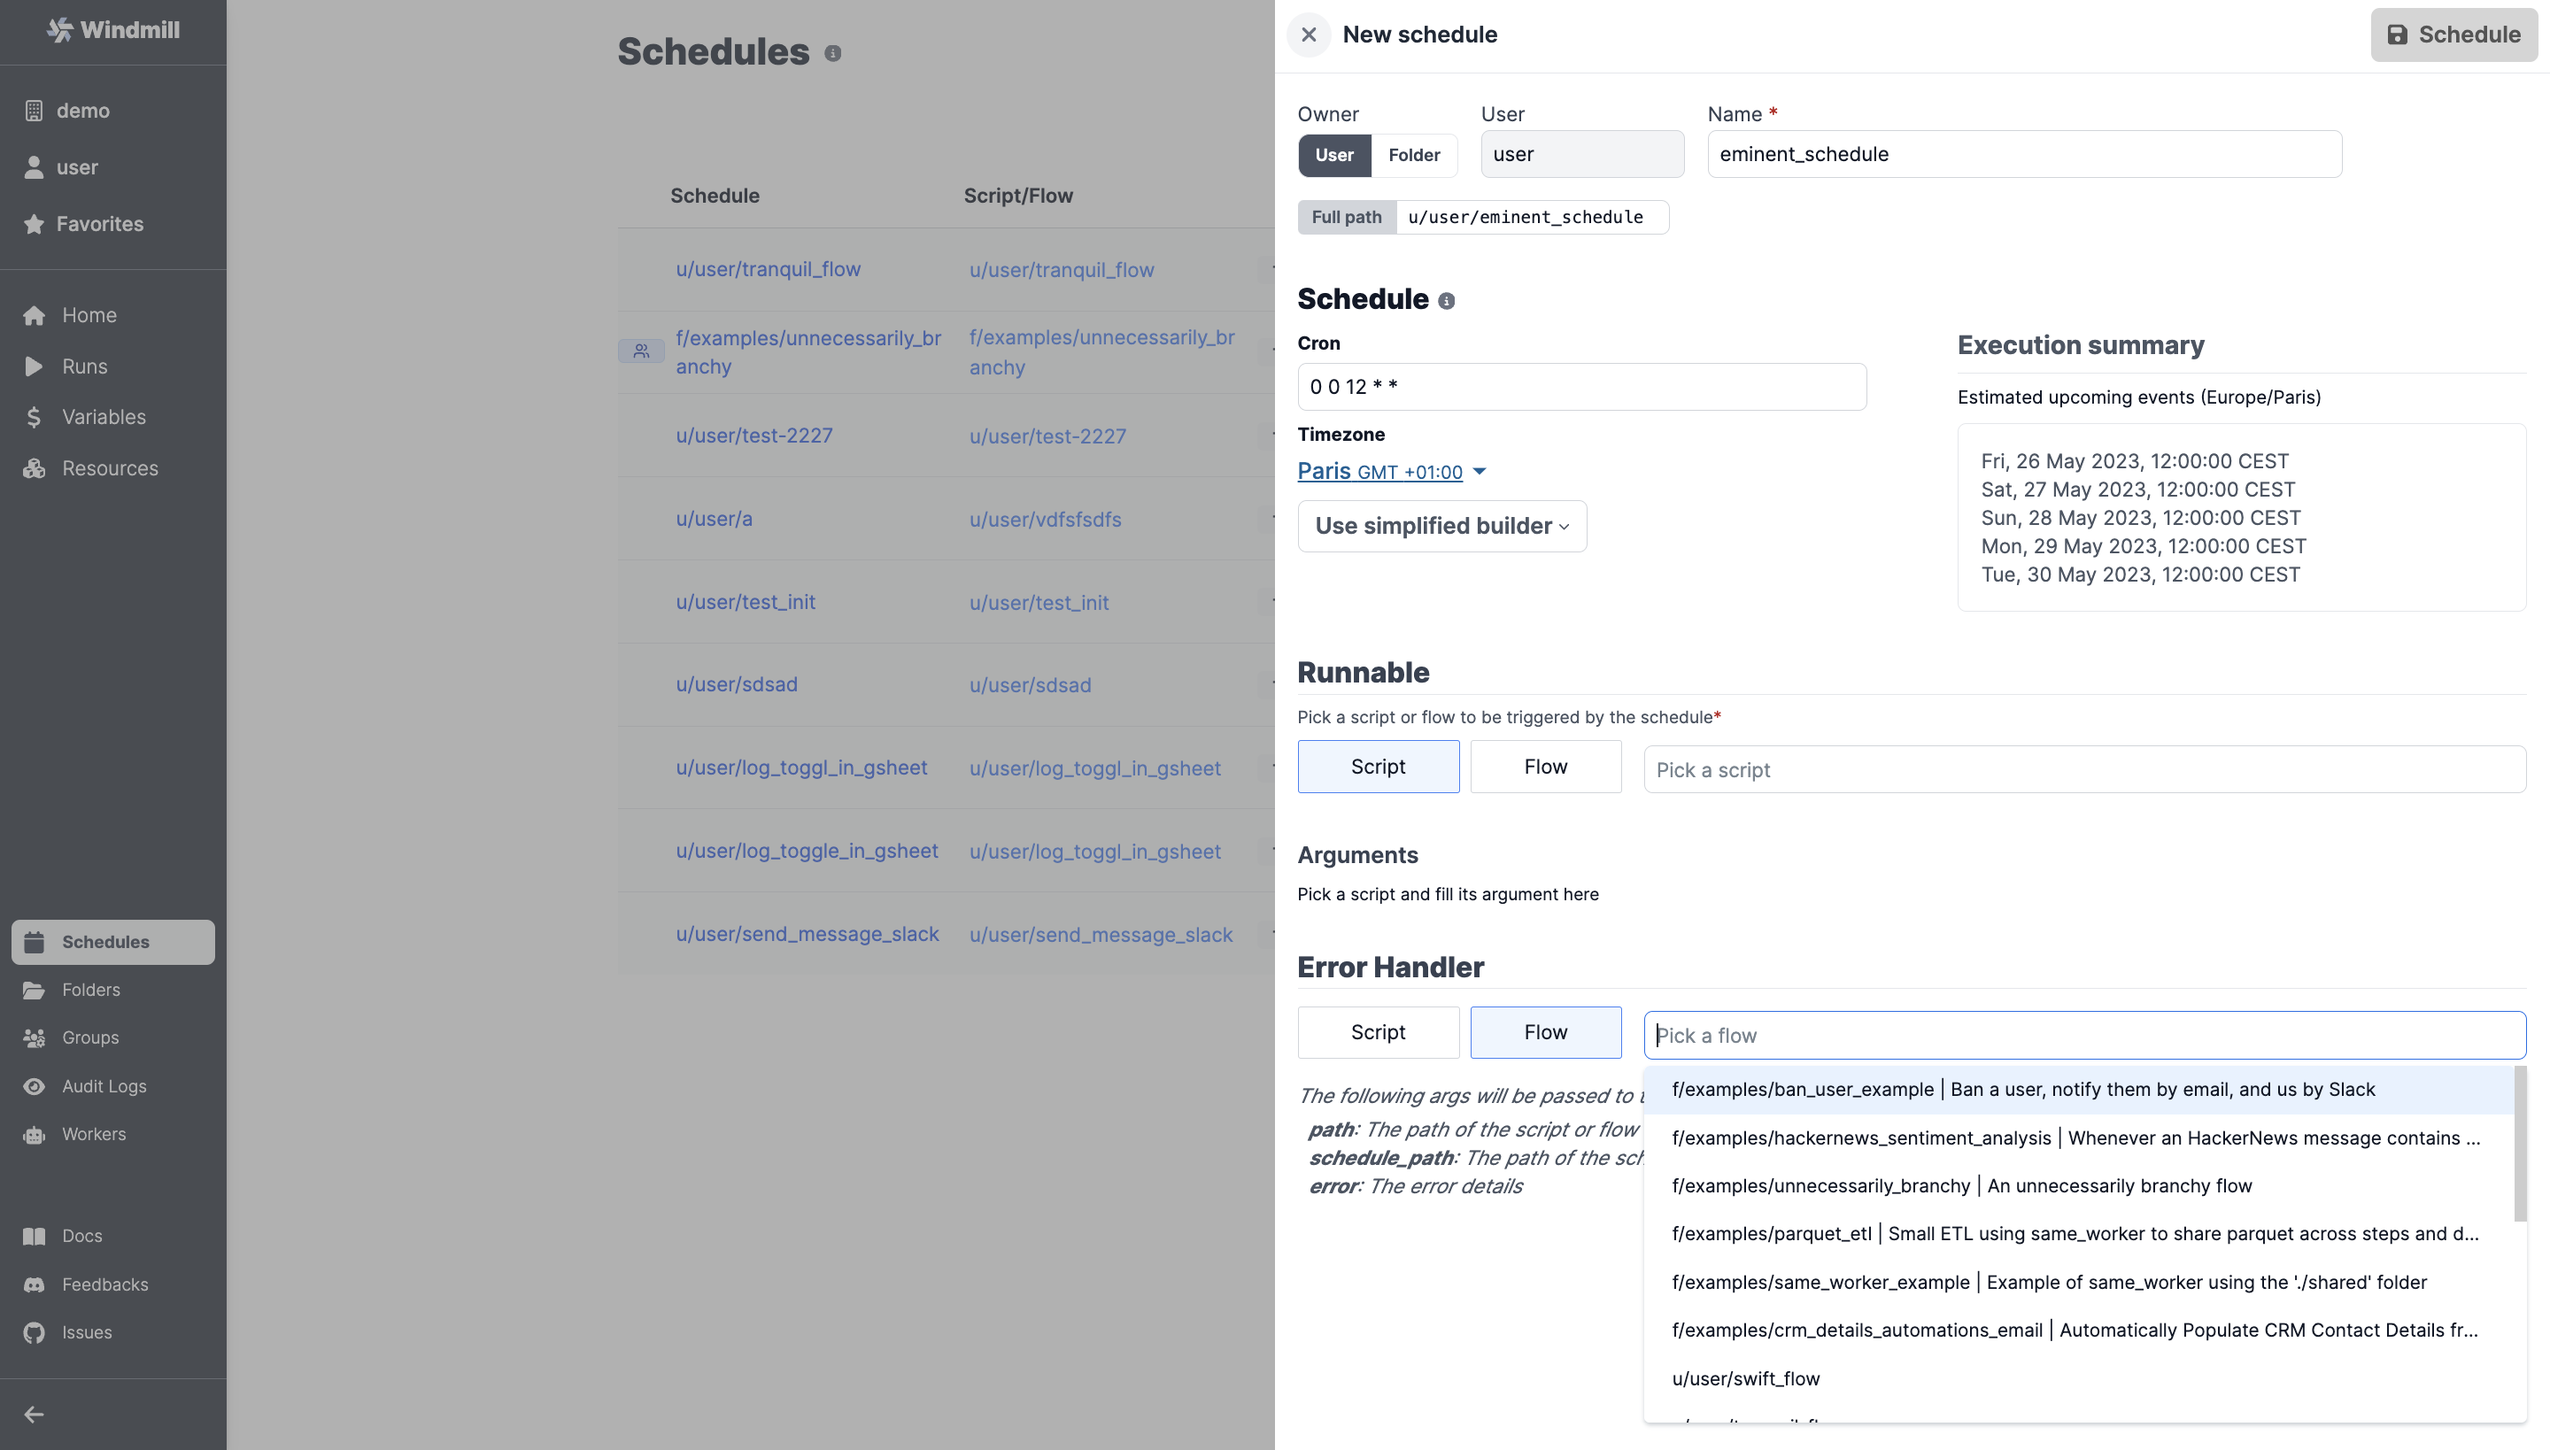
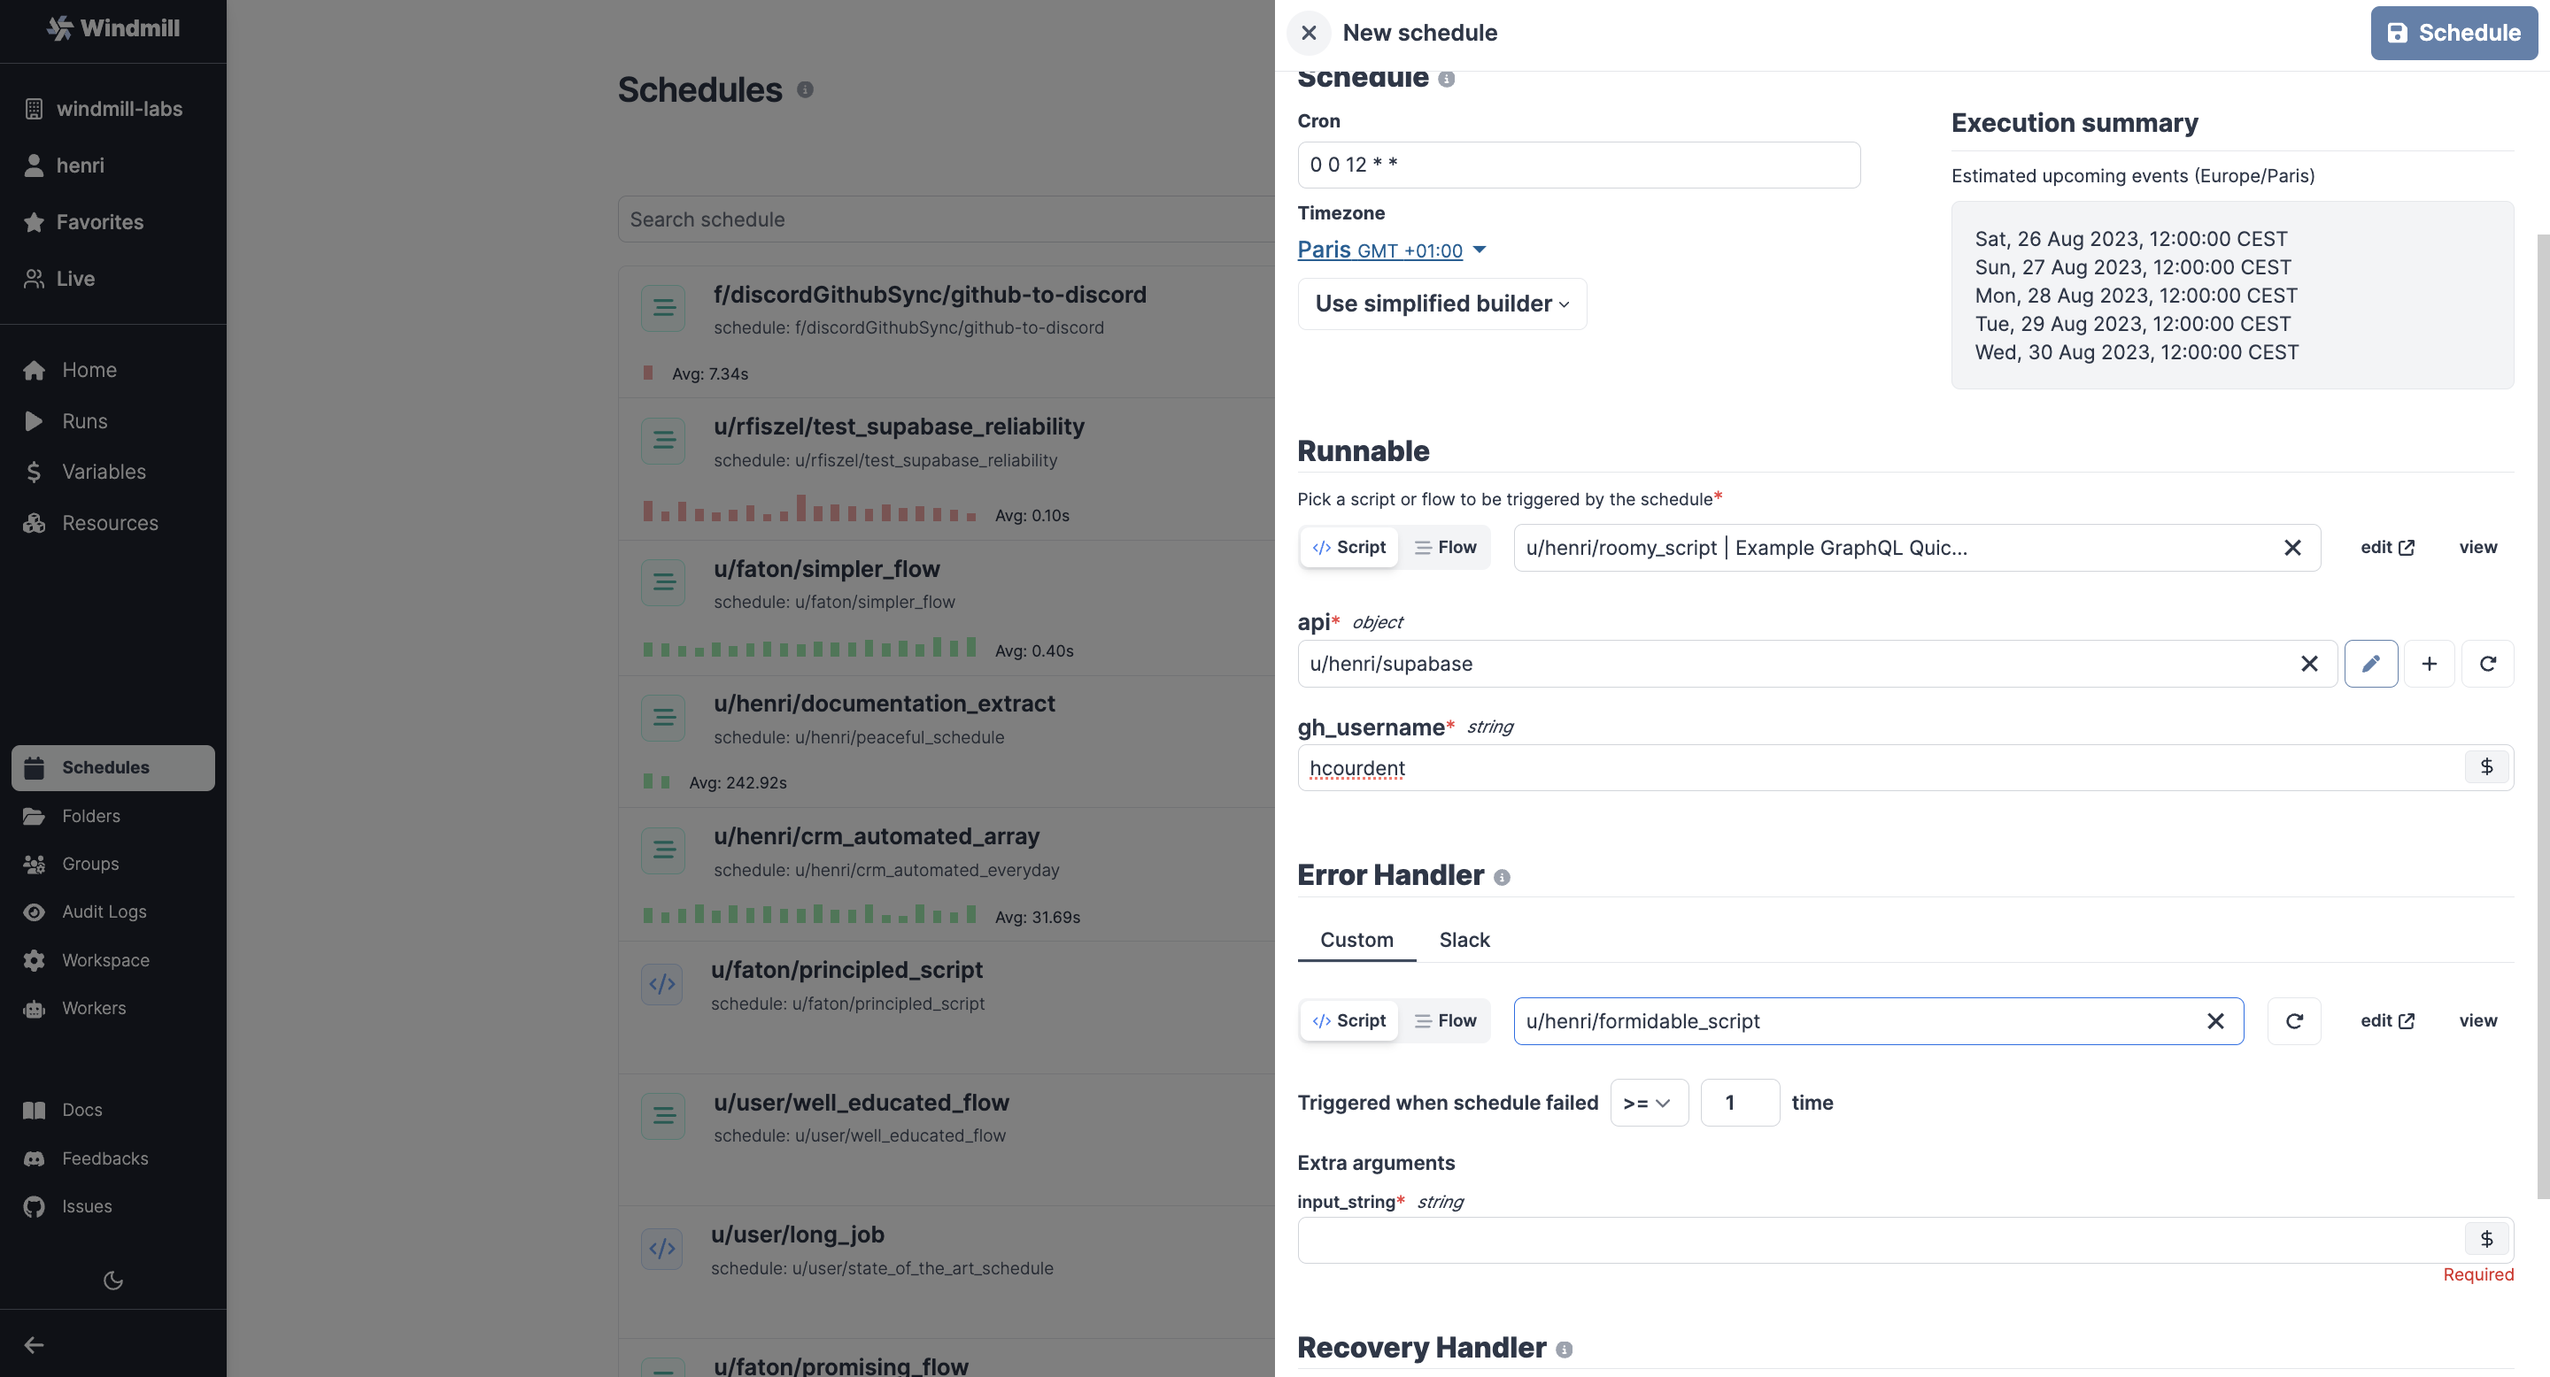
putting forward Schedule error handler

diff --git a/docs/core_concepts/1_scheduling/index.md b/docs/core_concepts/1_scheduling/index.md
@@ -1,8 +1,8 @@
 # Scheduling
 
-Windmill provides the same set of features as CRON, but with a user interface and control panels. It allows you to define Schedules for Scripts and Flows. Once a schedule is defined, **the script will automatically run at the set frequency**. Think of it as an easy-to-use scheduler similar to CRON that you can share with other users.
+Windmill provides the same set of features as CRON, but with a user interface and control panels. It allows you to define Schedules for Scripts and Flows. Once a schedule is defined, the script will automatically run at the set frequency. Think of it as an easy-to-use scheduler similar to CRON that you can share with other users.
 
-A Schedule consists of a **Script or Flow**, its **arguments** and a **CRON expression** that controls the execution frequency.
+A Schedule consists of a **Script or Flow**, its **arguments**, a **CRON expression** that controls the execution frequency and an **Error Handler** to deal with failed scheduled executions.
 
 <!--truncate-->
 
@@ -23,7 +23,7 @@ However, as with any powerful tool, using cron comes with its own set of challen
 - **Runs History**: to maintain a record of script runs and log outputs through cron, you must manually incorporate that logic.
 - **Error Handling**: in the event of a failed run, self-crafted logic is required for notifications (Slack, emails).
 - **Manual Runs**: executing a cron job manually, outside of its schedule, proves difficult and can lead to inconsistencies due to potential environment differences.
-- **No UI**: navigating cron jobs is challenging without a centralized hub, particularly for larger engineering teams. This comes with induced issues: 1. **Handling permissions** among users and editors and 2. **Server downtime**: when the server hosting the job experiences downtime, monitoring and alterting is problematic.
+- **No UI**: navigating cron jobs is challenging without a centralized hub, particularly for larger engineering teams. This comes with induced issues: 1. **Handling permissions and Errors** among users and editors and 2. **Server downtime**: when the server hosting the job experiences downtime, monitoring and alterting is problematic.
 
 :::info A bit of Context: How Windmill Works
 
@@ -50,6 +50,10 @@ From your workspace, navigate to the dedicated `Schedules` menu and select `New 
 2. Select a **runnable** ([script][scripts] or [flow][flows]) from your workspace.
 
 3. Fill in the **arguments** that will be used for the automation. The arguments are the ones of the given script or flow. If you want your arguments to be dynamic, you might want to use a [workflow][flows].
+
+4. Optional: Add an **Error Handler**
+
+5. Optional: Add a **Recovery Handler**
 
 ![Schedule a task](./12-schedule-a-task.png.webp 'Schedule a task')
 
@@ -102,17 +106,31 @@ Fill in the inputs, toggle the Schedule Enabled option, save, and you're all set
 
 ## Control Permissions and Errors
 
-### Be notified every time a scheduled workflow has been executed (or failed)
-
-#### Schedule Error Handler
+### Schedule Error Handler
 
 From the schedule configuration, add a special script or flow to execute in case of an error.
 
-![Schedule Error Handler](./14_schedule_error_handler.png.webp)
+![Schedule Error Handler](./14_schedule_error_handler.png)
 
 For example, this can be a script that sends an error notification to [Slack](https://hub.windmill.dev/scripts/slack/1284/) or [Discord](https://hub.windmill.dev/scripts/discord/1292/).
 
-#### As a Flow Step
+You can pick the Slack pre-set schedule error handler.
+
+<video
+	className="border-2 rounded-xl object-cover w-full h-full dark:border-gray-800"
+	controls
+	src="/videos/schedule_error_handler.mp4"
+/>
+
+### Schedule Recovery Handler
+
+From the schedule configuration, add a special script or flow to execute in case of of recovery from Error.
+
+You can pick the Slack pre-set schedule recovery handler.
+
+![Schedule Recovery Handler](./15_schedule_recovery_handler.png)
+
+### Be notified every time a scheduled workflow has been executed
 
 For scheduled flows, add a simple step to be notified about the execution of the scheduled flow.
 
